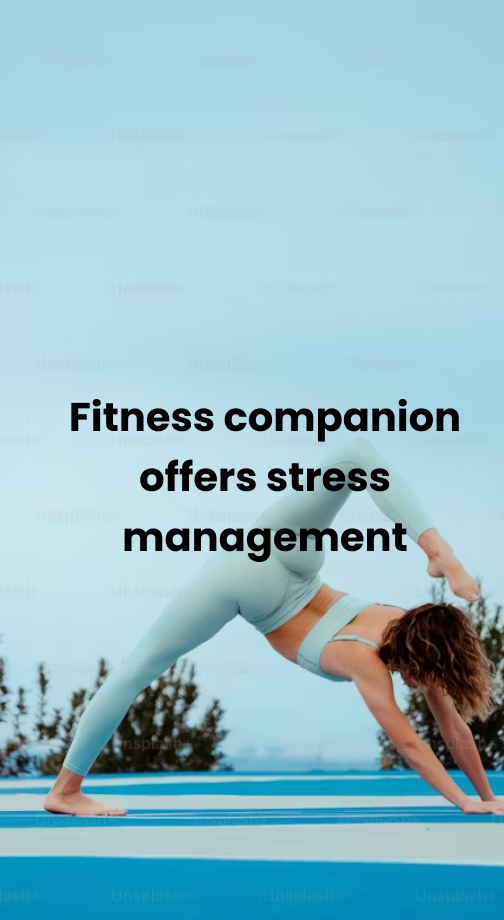
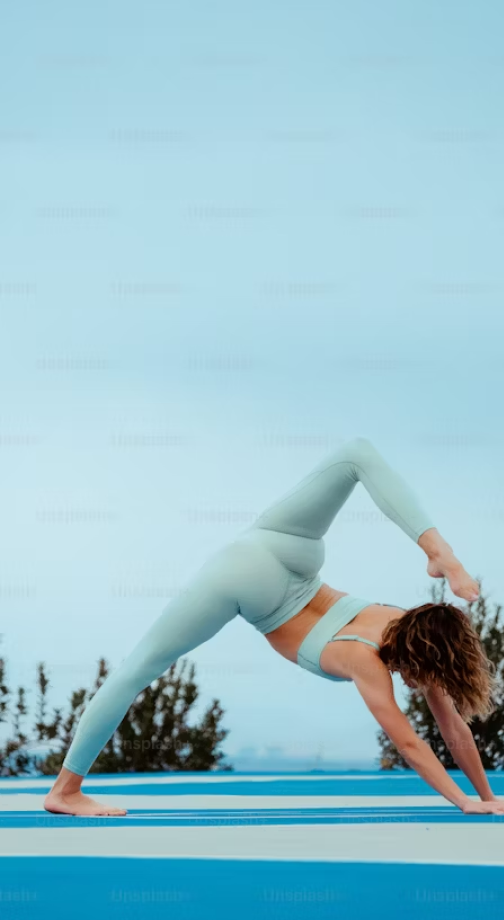
Fix object positioning and text positioning

Changed region(s): [[0.119, 0.4261, 0.9226, 0.6087]]

diff --git a/google-fit/src/components/Hero/Hero.scss b/google-fit/src/components/Hero/Hero.scss
@@ -26,11 +26,10 @@
     }
     &__middle {
       @extend .hero-text;
-
       text-align: center;
-      left: 38%;
-      width: 14rem;
-      top: 26rem;
+      left: 36%;
+      width: 15rem;
+      top: 22rem;
 
       @include desktop {
         left: 38%;
@@ -55,10 +54,20 @@
     width: 39%;
     height: 35rem;
     object-fit: cover;
+    overflow: hidden;
   }
   &-image {
     &__left {
-      object-position: -15% 0;
+      object-position: 17% 0;
+    }
+
+    &__middle {
+      @include tablet;
+      object-position: 95% 76%;
+
+      @include desktop {
+        object-position: 2% 76%;
+      }
     }
   }
 }

diff --git a/google-fit/src/components/Hero/Hero.js b/google-fit/src/components/Hero/Hero.js
@@ -1,6 +1,6 @@
 import "./Hero.scss";
 import heroImageLeft from "../../assets/images/Hero-left-enlarged.png";
-import heroImageMiddle from "../../assets/images/hero-middle-enlarged.png";
+import heroImageMiddle from "../../assets/images/hero-middle.png";
 import heroImageRight from "../../assets/images/hero-right-enlarged.png";
 
 function Hero() {
